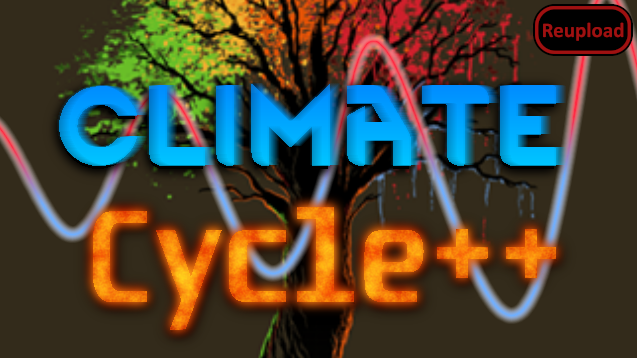
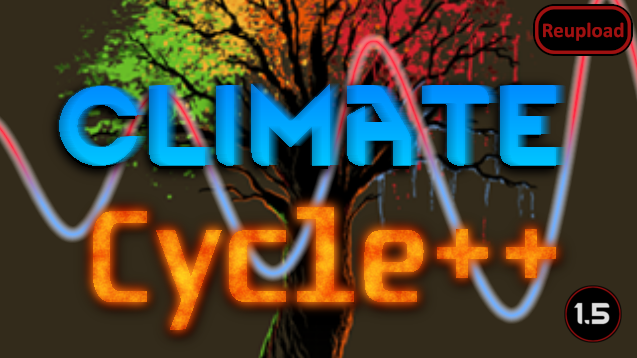
Mod updated for 1.5 and passed autotests Used DeepL to update translations for ChineseSimplified, French, German

Changed region(s): [[0.865, 0.7989, 0.9843, 0.9525]]

diff --git a/Source/Climate-Cycle++/SettingsHelper.cs b/Source/Climate-Cycle++/SettingsHelper.cs
@@ -63,12 +63,11 @@ internal static class SettingsHelper
         Widgets.TextFieldNumeric(rightHalf, ref settingsValue, ref buffer, minValue, maxValue);
     }
 
-    public static Rect LineRectSpilter(this Listing_Standard listing_Standard, out Rect leftHalf,
+    public static void LineRectSpilter(this Listing_Standard listing_Standard, out Rect leftHalf,
         out Rect rightHalf, float leftPartPct = 0.5f, float? height = null)
     {
         var lineRect = listing_Standard.LineRectSpilter(out leftHalf, leftPartPct, height);
         rightHalf = lineRect.RightPart(1f - leftPartPct).Rounded();
-        return lineRect;
     }
 
     public static Rect LineRectSpilter(this Listing_Standard listing_Standard, out Rect leftHalf,
@@ -79,16 +78,10 @@ internal static class SettingsHelper
         return lineRect;
     }
 
-    public class LabeledRadioValue<T>
+    public class LabeledRadioValue<T>(string label, T val)
     {
-        public LabeledRadioValue(string label, T val)
-        {
-            Label = label;
-            Value = val;
-        }
+        public string Label { get; } = label;
 
-        public string Label { get; set; }
-
-        public T Value { get; set; }
+        public T Value { get; } = val;
     }
 }

diff --git a/Source/Climate-Cycle++/ClimateCycle.cs b/Source/Climate-Cycle++/ClimateCycle.cs
@@ -9,15 +9,14 @@ internal class ClimateCycle : Mod
     private static string currentVersion;
 
     public static readonly string[] cycleTypes =
-        { "Regular Cycle", "Winter is coming", "Waiting for the Sun", "Normal Summer, Cold Winter" };
+        ["Regular Cycle", "Winter is coming", "Waiting for the Sun", "Normal Summer, Cold Winter"];
 
     private readonly CycleSettings settings;
 
     public ClimateCycle(ModContentPack content) : base(content)
     {
         currentVersion =
-            VersionFromManifest.GetVersionFromModMetaData(
-                ModLister.GetActiveModWithIdentifier("Mlie.ClimateCyclePlusPlus"));
+            VersionFromManifest.GetVersionFromModMetaData(content.ModMetaData);
         settings = GetSettings<CycleSettings>();
         GameCondition_ClimateCyclePlusPlus.settings = settings;
     }

diff --git a/README.md b/README.md
@@ -45,11 +45,13 @@ It also adds an alert for Heatstroke. You'll need it.
 
 -  See if the the error persists if you just have this mod and its requirements active.
 -  If not, try adding your other mods until it happens again.
--  Post your error-log using https://steamcommunity.com/workshop/filedetails/?id=818773962]HugsLib and command Ctrl+F12
+-  Post your error-log using https://steamcommunity.com/workshop/filedetails/?id=818773962]HugsLib or the standalone https://steamcommunity.com/sharedfiles/filedetails/?id=2873415404]Uploader and command Ctrl+F12
 -  For best support, please use the Discord-channel for error-reporting.
 -  Do not report errors by making a discussion-thread, I get no notification of that.
 -  If you have the solution for a problem, please post it to the GitHub repository.
+-  Use https://github.com/RimSort/RimSort/releases/latest]RimSort to sort your mods
 
 
 
+https://steamcommunity.com/sharedfiles/filedetails/changelog/2024296023]![Image](https://img.shields.io/github/v/release/emipa606/ClimateCyclePlusPlus?label=latest%20version&style=plastic&color=9f1111&labelColor=black)
 
